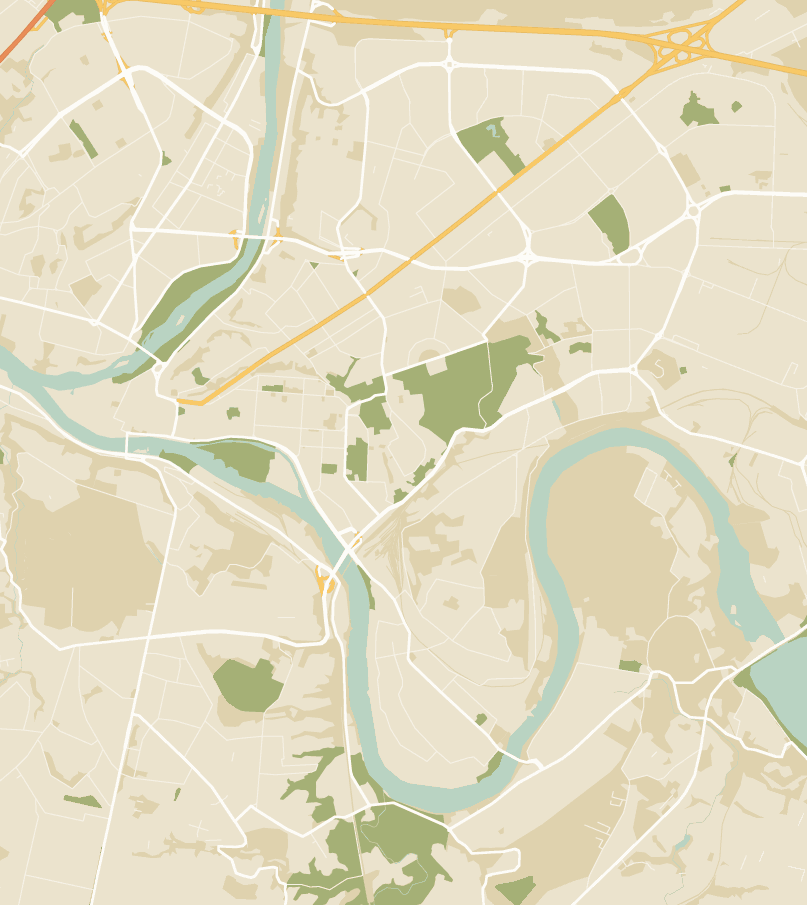
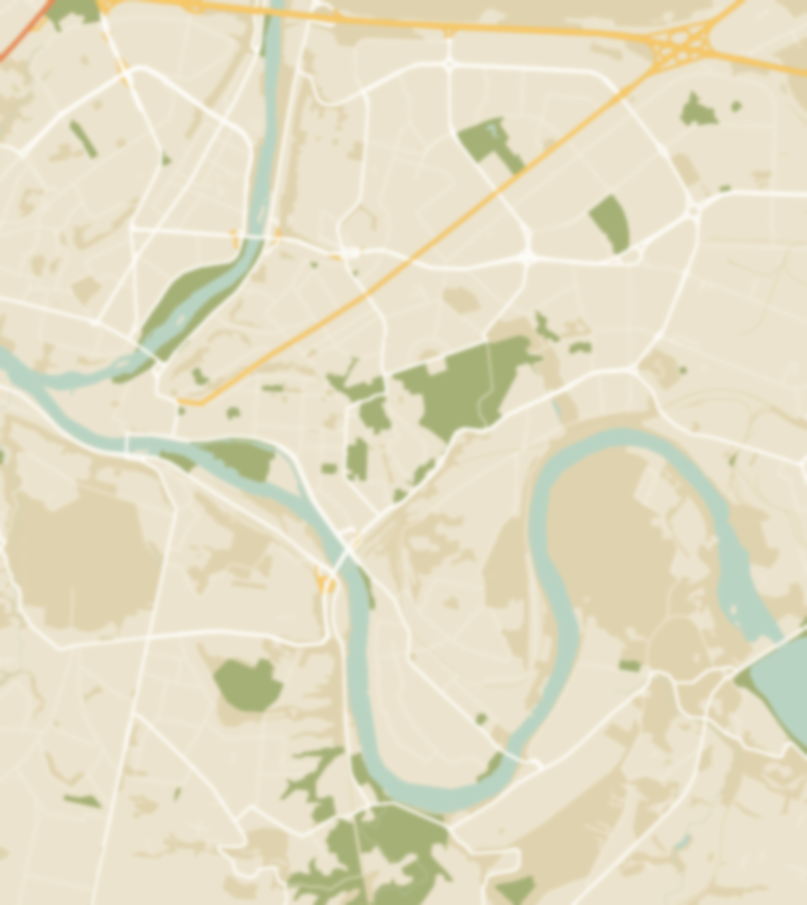
Revisedd the Login screen. Also, apparently, the background image blur property works different on iOS and Android, so i blurred the images from the source, to avoid blurring it in the code

diff --git a/frontend/screens/LoginScreen.js b/frontend/screens/LoginScreen.js
@@ -2,7 +2,11 @@ import * as React from 'react'
 import { Image, TouchableOpacity, StyleSheet, View, Text, ImageBackground, Alert, AsyncStorage} from 'react-native';
 import { ScrollView, TextInput} from 'react-native-gesture-handler';
 
-import Layout from '../constants/Layout'
+import IonicsIcon from '../components/IonicsIcon'
+import { TitilliumWeb } from '../components/TitilliumWeb'
+import FontAwesomeIcon from '../components/FontAwesomeIcon';
+import Colors from '../constants/Colors';
+import Dimensions from '../constants/Layout';
 
 export default function LoginScreen({navigation}){
 
@@ -10,53 +14,81 @@ export default function LoginScreen({navigation}){
     const [inputPassword, setInputPassword] = React.useState('');
 
     return(
-        <ImageBackground source={require('../assets/backgrounds/kaunas_bg.png')} 
-                         style={styles.background} blurRadius={5}>
-            <View>
-                <ScrollView  keyboardDismissMode={'on-drag'} showsVerticalScrollIndicator={false}>
-                    <Image
-                        style={Layout.logoPresentation}
-                        source={require('../assets/images/carbbit.png')}
-                    />
-                    <Text style={styles.login}>Prisijungimas</Text>
-                    <Separator/>
-                    
-                    <Text>Vardas</Text>
-                    <TextInput
-                        onChangeText={text => setInputName(text)}
-                        value={inputName}
-                        style={styles.inputBox}
-                        />
-                    <Separator/>
+        <ImageBackground source={require('../assets/backgrounds/klaipeda_bg.png')} 
+                         style={styles.background}>
 
-                    <Text>Slaptažodis</Text>
-                    <TextInput
-                        onChangeText={text => setInputPassword(text)}
-                        value={inputPassword}
-                        style={styles.inputBox}
-                        secureTextEntry={true}
-                        />
-                    <Separator/>
-                    <TouchableOpacity style={styles.button} onPress={() => {
-                        // set navigation head to Root (BottomNavbar component in App.js)
-                        // navigation.reset CANNOT BE CALLED OUTSIDE OF return()
-                        // or it won't work, but doesn't throw an error
-                        checkInputs(inputName, inputPassword)
-                        ? navigation.reset({
-                            index: 0,
-                            routes: [
-                                {name: 'Root'}
-                            ]
-                        })
-                        : undefined}
-                        }>
-                        <Text>Prisijungti</Text>
-                    </TouchableOpacity>
-                
-                    <Separator />
-
-                </ScrollView>    
+            <View style={styles.headerContainer}>
+              
+              <TouchableOpacity style={styles.backButton} onPress={() => navigation.goBack()}>
+                  <View>
+                      <IonicsIcon name={"ios-arrow-back"} sizeOf={35} colorOf={'arrowIdle'}/>
+                  </View> 
+              </TouchableOpacity>                   
+              <TitilliumWeb style={styles.title}>prisijungimas</TitilliumWeb>
             </View>
+
+            <View style={{alignSelf: 'center'}}>
+                <View style={styles.hairline}/>           
+            </View>
+
+
+            <ScrollView  keyboardDismissMode={'on-drag'} showsVerticalScrollIndicator={false}>
+                
+                <View style={{marginVertical: 40}}/>
+                <View style={styles.container}>
+
+                <View style={styles.inputContainer}>
+                    <View style={styles.inputContainerUpperHairline}/>
+                    <View style={{flexDirection: 'row'}}>
+                        <FontAwesomeIcon  style={{marginVertical: 2, marginHorizontal: 2}}name={"user"} sizeOf={35}/>
+                        <View style={{marginHorizontal: 5}}/>
+                        <TextInput
+                            onChangeText={text => setInputName(text)}
+                            value={inputName}
+                            style={styles.inputBox}
+                            placeholder={"vardas..."}
+                            placeholderTextColor={Colors.hintText}
+                        />
+                    </View>
+                </View>
+
+                <View style={{marginVertical: 30}}/>
+
+                <View style={styles.inputContainer}>
+                    <View style={styles.inputContainerUpperHairline}/>
+                    <View style={{flexDirection: 'row'}}>
+                        <FontAwesomeIcon  style={{marginTop: 2, marginLeft: 3}}name={"lock"} sizeOf={40}/>
+                        <View style={{marginHorizontal: 5}}/>
+                        <TextInput
+                            onChangeText={text => setInputPassword(text)}
+                            value={inputPassword}
+                            style={styles.inputBox}
+                            secureTextEntry={true}
+                            placeholder={"slaptažodis..."}
+                            placeholderTextColor={Colors.hintText}
+                            />
+                    </View>
+                </View>
+
+                <View style={{marginVertical: 40}}/>
+
+                <TouchableOpacity style={styles.button} onPress={() => {
+                    // set navigation head to Root (BottomNavbar component in App.js)
+                    // navigation.reset CANNOT BE CALLED OUTSIDE OF return()
+                    // or it won't work, but doesn't throw an error
+                    checkInputs(inputName, inputPassword)
+                    ? navigation.reset({
+                        index: 0,
+                        routes: [
+                            {name: 'Root'}
+                        ]
+                    })
+                    : undefined}
+                    }>
+                    <TitilliumWeb style={{fontSize: 26}}>tęsti</TitilliumWeb>
+                </TouchableOpacity>
+                </View>
+            </ScrollView>    
         </ImageBackground>
     )
 }
@@ -82,10 +114,6 @@ async function _retrieveData() {
     }
   };
 
-function Separator() {
-    return <View style={styles.separator} />;
-}
-
 function handleLoginButton(navigation){
     navigation.navigate('Root');
 }
@@ -101,26 +129,59 @@ const styles = StyleSheet.create({
     },
     inputBox: {
         height: 40,
-        width: 300,
-        borderColor: 'black',
-        borderWidth: 2,
-        borderBottomWidth: 2,
-        shadowColor: 'black',
-        shadowOpacity: 0.2,
-        backgroundColor: '#EEECD4',        
+        width: '88%',
+        borderColor: Colors.buttonBorderColorBlack,
+        borderBottomWidth: 1,
+        fontSize: 15,      
     },
     background: {
-        justifyContent: 'center',
-        alignItems: 'center',
         width: '100%',
         height: '100%',
     },
+    container: {
+        flex: 1,
+        width: '100%',
+        alignItems: 'center',
+    },
     button: {
-        backgroundColor: '#EEECD4',
-        borderWidth: 2,
-        borderColor: 'black',
-        height: 50,
+        backgroundColor: Colors.buttonColor,
+        borderWidth: 1,
+        borderRadius: 10,
+        borderColor: Colors.buttonBorderColorBlack,
+        height: '20%',
+        width: '55%',
         justifyContent: 'center',
         alignItems: 'center',
+    },
+    headerContainer: {
+        flexDirection: 'row',
+        marginTop: 50.5,
+        alignItems: 'center',
+        justifyContent: 'center',
+    },
+    title: {
+        fontSize: 27,
+        fontWeight: '600',
+        letterSpacing: 1,
+        marginLeft: 15,
+    },
+    hairline: {
+        borderBottomWidth: 1,
+        paddingTop: 8.5,
+        borderColor: Colors.hairline,
+        width: 240,
+    },
+    backButton: {
+        marginLeft: -30,
+        paddingHorizontal: 10,
+        paddingTop: 5,        
+    },
+    inputContainer: {
+        width: '90%',
+    },
+    inputContainerUpperHairline: {
+        borderBottomWidth: 1,
+        borderColor: Colors.hairline,
+        width: '100%',
     },
 });

diff --git a/frontend/screens/NotificationsScreen.js b/frontend/screens/NotificationsScreen.js
@@ -39,8 +39,8 @@ export default class NotificationsScreen extends React.Component{
     render(){
         if(this.state.isLoading){
             return(
-                    <ImageBackground source={require('../assets/backgrounds/kaunas_bg.png')} 
-                                    style={styles.background} blurRadius={5}>
+                    <ImageBackground source={require('../assets/backgrounds/siauliai_bg.png')} 
+                                    style={styles.background}>
                         <View style={{flex:1,padding:20}}>
                         </View>
                     </ImageBackground>
@@ -48,8 +48,8 @@ export default class NotificationsScreen extends React.Component{
         }
         else{
             return(
-                <ImageBackground source={require('../assets/backgrounds/kaunas_bg.png')} 
-                                 style={styles.background} blurRadius={5}>
+                <ImageBackground source={require('../assets/backgrounds/siauliai_bg.png')} 
+                                 style={styles.background}>
                     <View style={styles.headerContainer}>
               
                         <TouchableOpacity style={styles.backButton} onPress={() => this.props.navigation.goBack()}>

diff --git a/frontend/screens/UserPostsScreen.js b/frontend/screens/UserPostsScreen.js
@@ -161,8 +161,8 @@ export default class PublicList extends React.Component{
     render() {
         if(this.state.isLoading){
             return(
-                <ImageBackground source={require('../assets/backgrounds/kaunas_bg.png')} 
-                                style={styles.background} blurRadius={5}>
+                <ImageBackground source={require('../assets/backgrounds/alytus_bg.png')} 
+                                style={styles.background}>
                     <View style={{flex:1,padding:20}}>
                         <ActivityIndicator/>
                     </View>
@@ -171,8 +171,8 @@ export default class PublicList extends React.Component{
         }
         else{
             return(
-            <ImageBackground source={require('../assets/backgrounds/kaunas_bg.png')} 
-            style={styles.background} blurRadius={5}>
+            <ImageBackground source={require('../assets/backgrounds/alytus_bg.png')} 
+            style={styles.background}>
                 {/* "Skelbimai" eilė */}
                 <View style={styles.postContainer}>
                     <TitilliumWeb style={styles.title}>jūsų skelbimai</TitilliumWeb>

diff --git a/frontend/screens/PublicListScreen.js b/frontend/screens/PublicListScreen.js
@@ -147,7 +147,7 @@ export default class PublicList extends React.Component{
         if(this.state.isLoading){
             return(
                 <ImageBackground source={require('../assets/backgrounds/kaunas_bg.png')} 
-                                style={styles.background} blurRadius={5}>
+                                style={styles.background}>
                     <View style={{flex:1,padding:20}}>
                         <ActivityIndicator/>
                     </View>
@@ -156,7 +156,7 @@ export default class PublicList extends React.Component{
         }
         return(
             <ImageBackground source={require('../assets/backgrounds/kaunas_bg.png')} 
-                                style={styles.background} blurRadius={5}>
+                                style={styles.background}>
 
                 {/* "Skelbimai" eilė */}
                 <View style={styles.postContainer}>

diff --git a/frontend/App.js b/frontend/App.js
@@ -64,7 +64,7 @@ export default function App(props) {
         <NavigationContainer ref={containerRef} initialState={initialNavigationState}>
           <Stack.Navigator>
             <Stack.Screen name="Home" component={HomeScreen}/>
-            <Stack.Screen name="Login" component={LoginScreen}/>
+            <Stack.Screen options={{headerShown: false}} name="Login" component={LoginScreen}/>
             <Stack.Screen name="Register" component={RegisterScreen}/>
             <Stack.Screen name="Root" component={BottomNavbar}/>
 

diff --git a/frontend/screens/Settings_children_screens/UserAccountScreen.js b/frontend/screens/Settings_children_screens/UserAccountScreen.js
@@ -63,7 +63,7 @@ export default class UserAccountScreen extends React.Component{
     render(){   
     return(        
         <ImageBackground source={require('../../assets/backgrounds/vilnius_bg.png')} 
-        style={styles.background} blurRadius={5}>
+        style={styles.background}>
 
             <View style={styles.headerContainer}>
                 <TouchableOpacity style={styles.backButton} onPress={() => this.props.navigation.goBack()}>

diff --git a/frontend/screens/Settings_children_screens/AboutScreen.js b/frontend/screens/Settings_children_screens/AboutScreen.js
@@ -8,7 +8,7 @@ import Colors from '../../constants/Colors';
 export default function AboutScreen({navigation}){
     return(
         <ImageBackground source={require('../../assets/backgrounds/vilnius_bg.png')} 
-        style={styles.background} blurRadius={5}>
+        style={styles.background}>
 
             <View style={styles.headerContainer}>
                 <TouchableOpacity style={styles.backButton} onPress={() => navigation.goBack()}>

diff --git a/frontend/screens/RegisterScreen.js b/frontend/screens/RegisterScreen.js
@@ -13,7 +13,7 @@ export default function RegisterScreen({navigation}){
 
     return(
         <ImageBackground source={require('../assets/backgrounds/vilnius_bg.png')} 
-                         style={styles.background} blurRadius={5}>
+                         style={styles.background}>
             <View>
                 <ScrollView keyboardDismissMode={'on-drag'} showsVerticalScrollIndicator={false}>
                     <Image

diff --git a/frontend/screens/SettingsScreen.js b/frontend/screens/SettingsScreen.js
@@ -40,7 +40,7 @@ export default class SettingsScreen extends React.Component{
     render(){
         return(
             <ImageBackground source={require('../assets/backgrounds/kaunas_bg.png')} 
-                             style={styles.background} blurRadius={5}>
+                             style={styles.background}>
 
 <           View style={styles.headerContainer}>
                 <View style={{marginVertical: 15}}/>      

diff --git a/frontend/screens/ChatScreen.js b/frontend/screens/ChatScreen.js
@@ -9,8 +9,8 @@ export default class ChatScreen extends React.Component{
 
     render(){
         return(
-            <ImageBackground source={require('../assets/backgrounds/vilnius_bg.png')} 
-            style={styles.background} blurRadius={5}>
+            <ImageBackground source={require('../assets/backgrounds/alytus_bg.png')} 
+            style={styles.background}>
 
             </ImageBackground>
         )

diff --git a/frontend/screens/PostScreen.js b/frontend/screens/PostScreen.js
@@ -137,7 +137,7 @@ export default class PostScreen extends React.Component {
   render() { 
     return (
       <ImageBackground source={require('../assets/backgrounds/klaipeda_bg.png')} 
-                       style={styles.background} blurRadius={5}>
+                       style={styles.background}>
         
           <View style={styles.headerContainer}>
               
